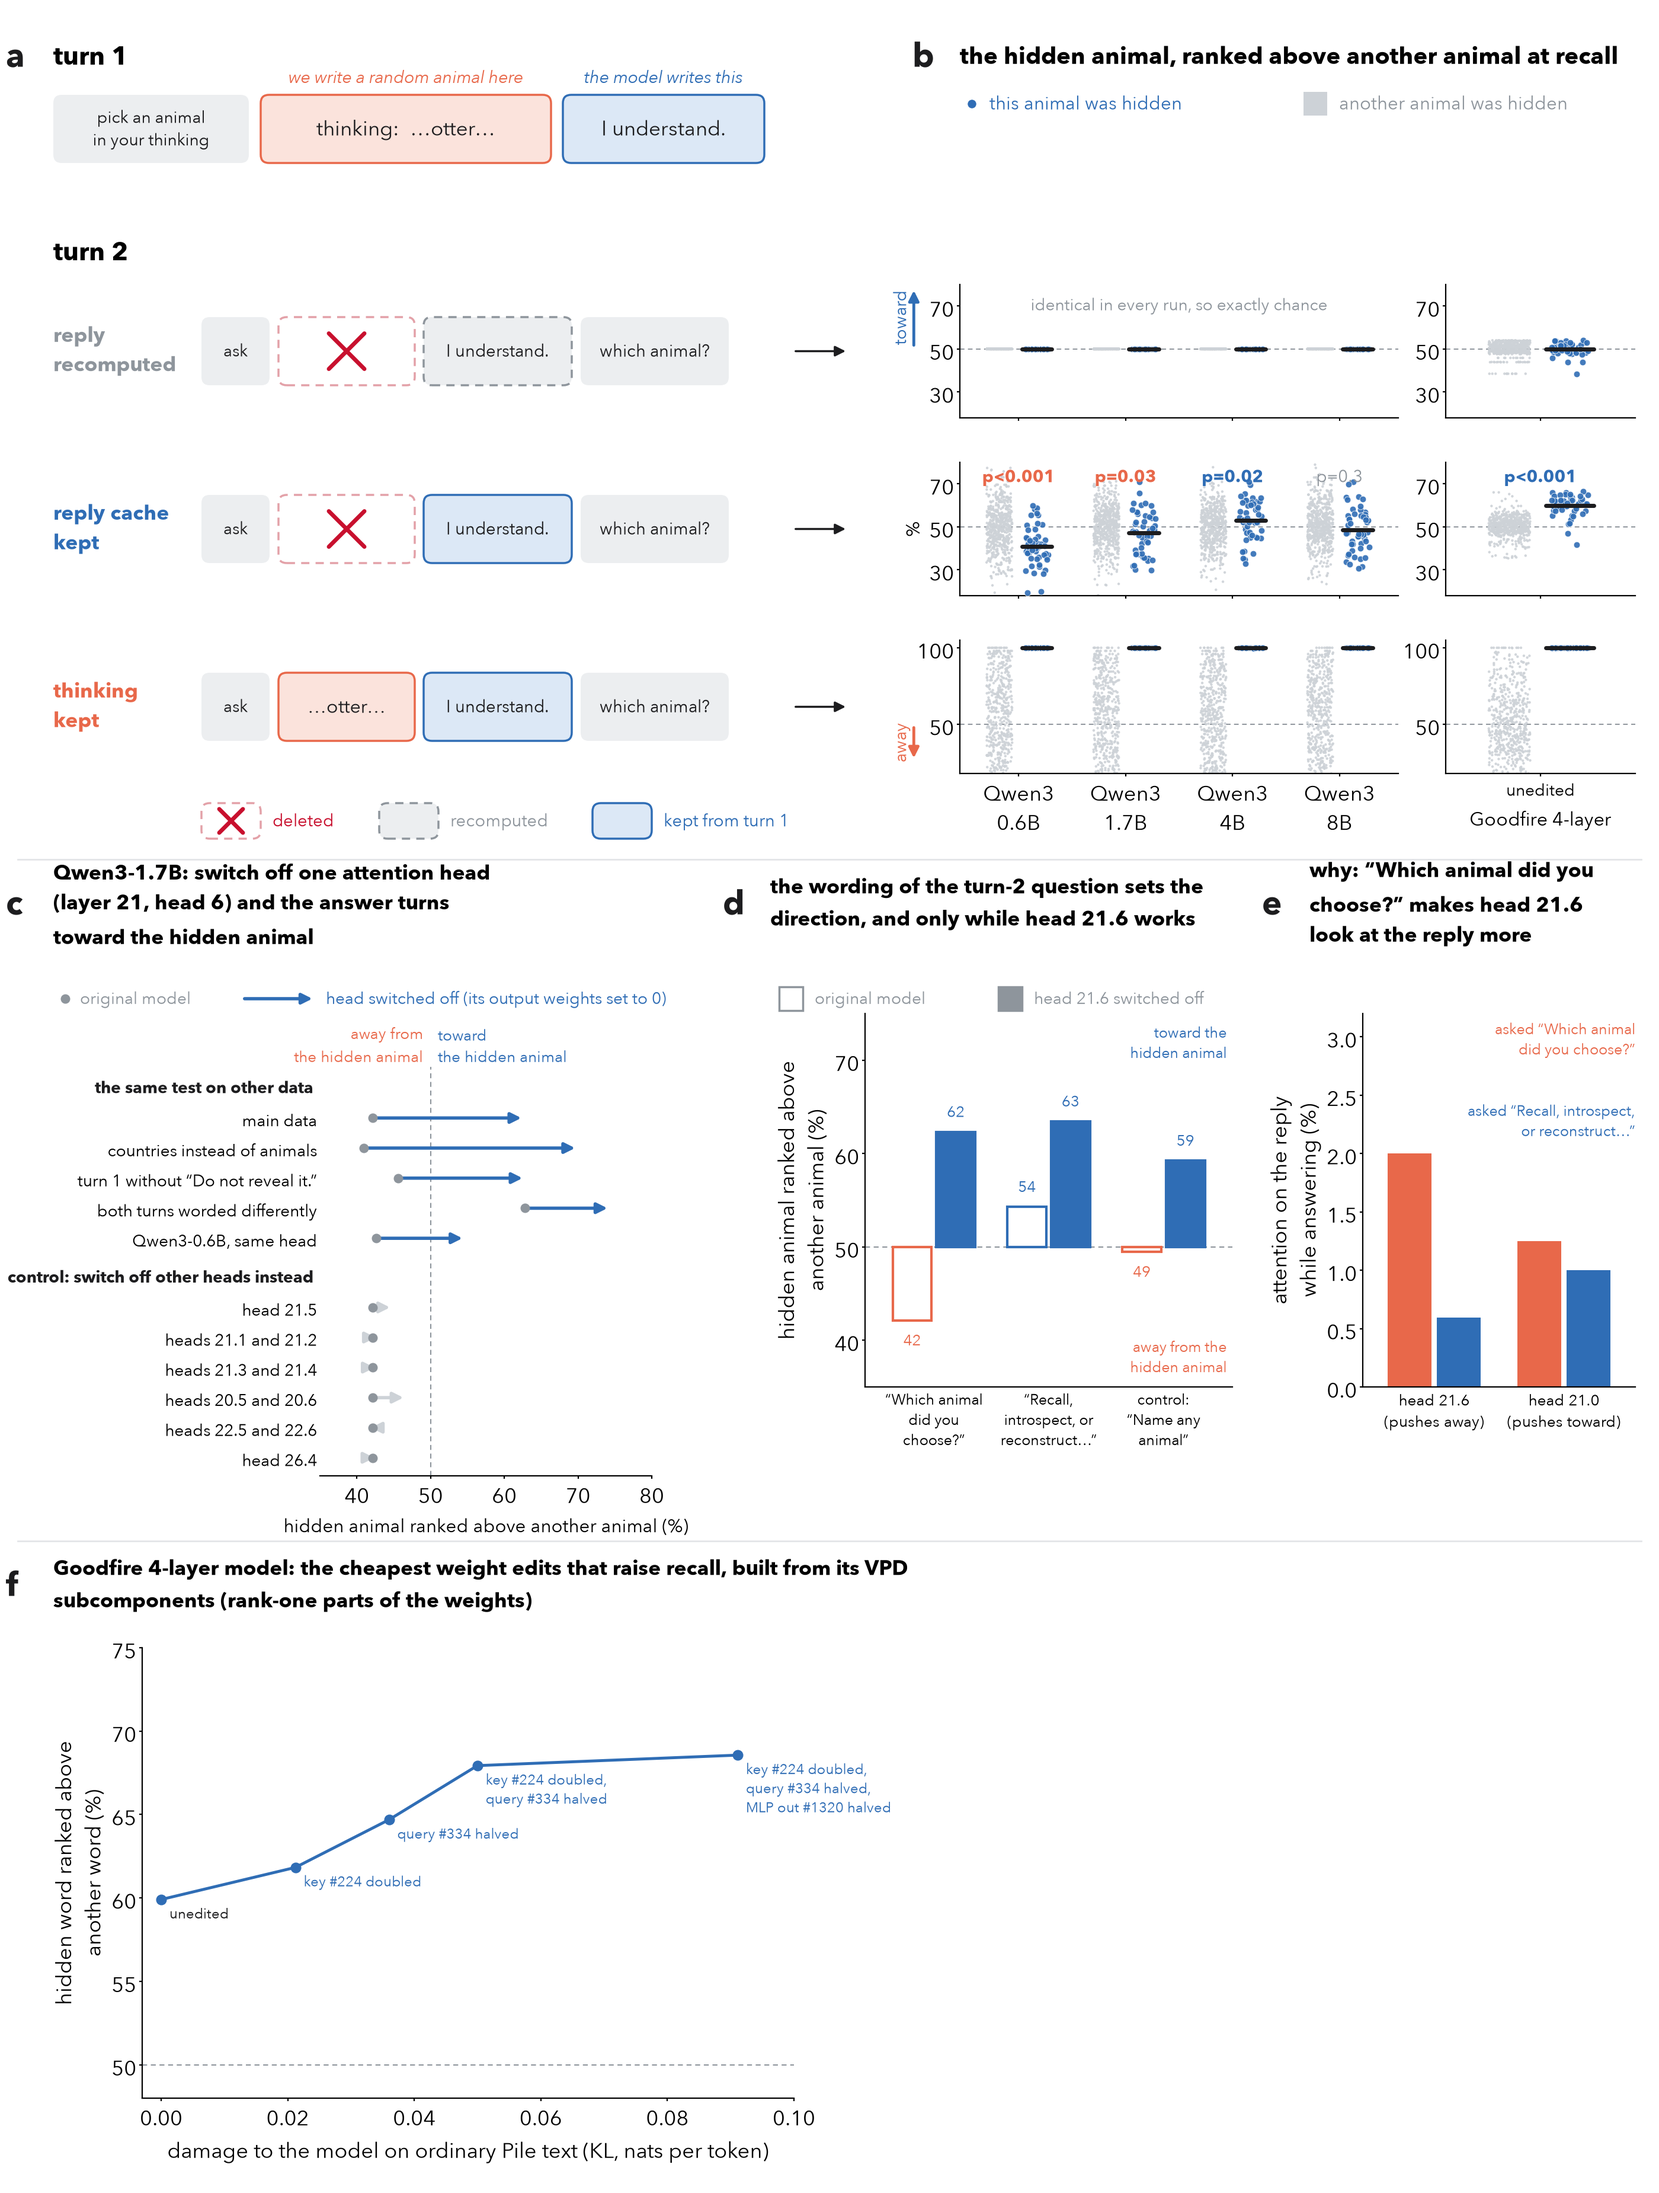
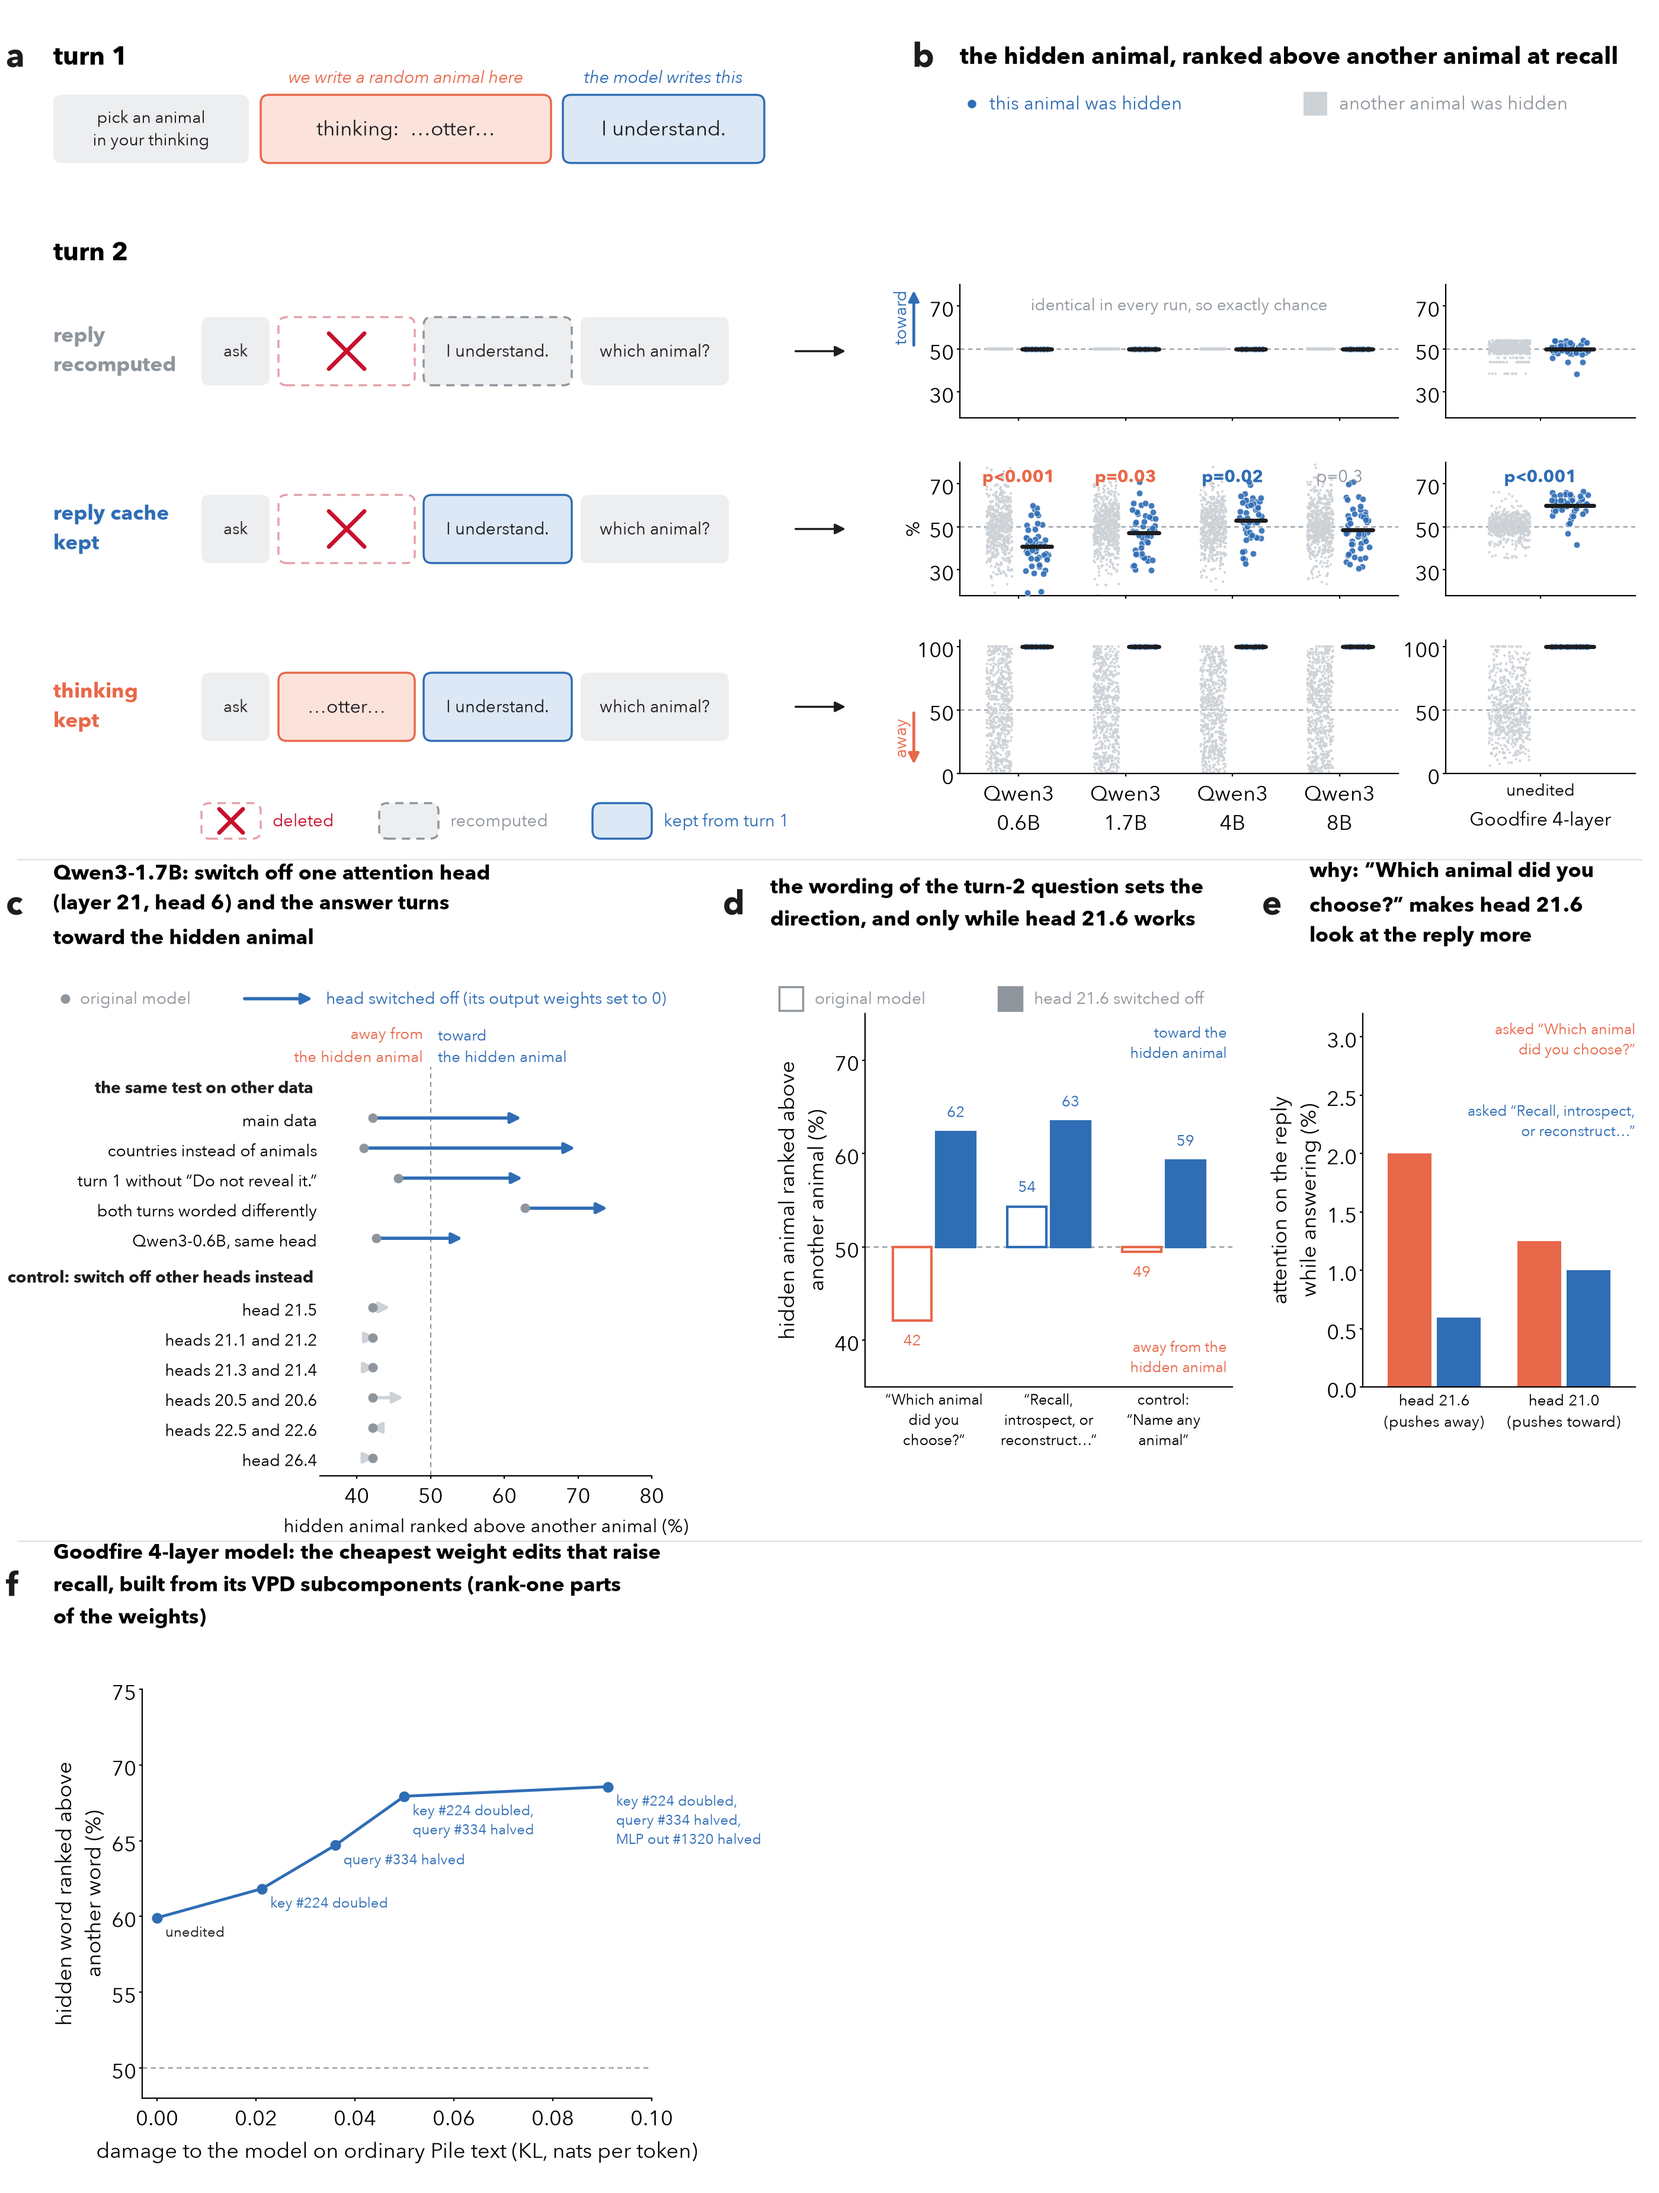
Panel b: full scale for the thinking-kept plot and an away arrow as long as the toward arrow; panel g slot for recall questions that differ in their request; edit_heads asks extra turn-2 questions over the same caches

diff --git a/figure_main.py b/figure_main.py
@@ -149,10 +149,10 @@ def row_experiment(cv, paths, y0, text4l=None):
     cv.S.text(22.6, top - 1.75, "another animal was hidden", fontsize=22, color=SLATE, va="center")
     specs = {"stripped": ((18, 80), [30, 50, 70], False),
              "retained": ((18, 80), [30, 50, 70], True),
-             "visible": ((18, 105), [50, 100], False)}
+             "visible": ((0, 105), [0, 50, 100], False)}
     specs4 = specs
     # direction: an up arrow above zero on the top plot, a down arrow below zero on the bottom plot
-    arrows = {"stripped": (51, 78, BLUE, "toward"), "visible": (49, 27, CORAL, "away")}
+    arrows = {"stripped": (51, 78, BLUE, "toward"), "visible": (49, 6, CORAL, "away")}
     for (name, _), y in zip(rows, ys):
         if text4l:
             ax4 = cv.axes(24.4, y - 0.55, 3.2, h + 1.1)
@@ -298,13 +298,49 @@ def row_head(cv, y0, flip_groups, questions, attention):
     ax.set_xlim(-0.55, 1.55)
 
 
-def row_fourlayer(cv, sweep_paths, optimized, y0):
+def panel_words(cv, x, y, w, h, path):
+    """Discrimination for turn-2 questions that differ only in their final request, over the same turn-1 caches
+    (edit_heads.py --question); bars start at chance."""
+    e = json.load(open(path))["edits"]["none"]
+    rows = [("retained", "\u201cWhich animal did you choose?\u201d"),
+            ("A_recall", "\u201cRecall which animal you chose\u201d"),
+            ("A_introspect", "\u201cIntrospect on which animal you chose\u201d"),
+            ("A_reconstruct", "\u201cReconstruct which animal you chose\u201d"),
+            ("A_all_three", "\u201cRecall, introspect, or reconstruct which\nanimal you chose\u201d"),
+            (None, None),
+            ("B_original", "question B as written"),
+            ("B_which", "question B ending \u201cWhich animal did\nyou choose?\u201d")]
+    ax = cv.axes(x, y, w, h)
+    yy, ticks, labels = 0.0, [], []
+    for arm, label in rows:
+        if arm is None:
+            yy -= 0.5
+            continue
+        if arm not in e:
+            continue
+        v = 100 * e[arm]["discrimination"]
+        col = BLUE if v > 50 else CORAL
+        ax.barh(yy, v - 50, left=50, height=0.66, color=col, zorder=2)
+        ax.text(v + (0.6 if v > 50 else -0.6), yy, f"{v:.0f}", va="center", ha="left" if v > 50 else "right", fontsize=19, color=col)
+        ticks.append(yy)
+        labels.append(label)
+        yy -= 1.0
+    direction_axis(ax, 35, 70)
+    ax.set_yticks(ticks, labels, fontsize=19)
+    ax.tick_params(axis="y", length=0)
+    ax.spines["left"].set_visible(False)
+    ax.set_ylim(yy + 0.4, 0.6)
+    ax.set_xticks([40, 50, 60, 70])
+    ax.set_xlabel("hidden animal ranked above another animal (%)", fontsize=22)
+
+
+def row_fourlayer(cv, sweep_paths, optimized, words, y0):
     """Panel f, occupying [y0, y0 + ROWS[2]]: the cheapest VPD-subcomponent weight edits of Goodfire's 4-layer model."""
     top = y0 + ROWS[2]
     cv.letter(0.1, top - 0.75, "f")
-    cv.S.text(0.9, top - 0.75, "Goodfire 4-layer model: the cheapest weight edits that raise recall, built from its VPD\n"
-              "subcomponents (rank-one parts of the weights)", fontsize=25, weight="bold", va="center", linespacing=1.15)
-    ax = cv.axes(2.4, y0 + 1.6, 11.0, 7.6)
+    cv.S.text(0.9, top - 0.75, "Goodfire 4-layer model: the cheapest weight edits that raise\nrecall, built from its VPD subcomponents (rank-one parts\nof the weights)",
+              fontsize=25, weight="bold", va="center", linespacing=1.15)
+    ax = cv.axes(2.4, y0 + 1.6, 8.6, 6.9)
     names = {"h.3.attn.q_proj#334": "query #334", "h.2.attn.k_proj#224": "key #224", "h.1.mlp.down_proj#1320": "MLP out #1320"}
     word = lambda f: {"0": "removed", "0.5": "halved", "2": "doubled", "4": "×4", "8": "×8"}.get(f, f"×{f}")
     pts = []
@@ -335,6 +371,11 @@ def row_fourlayer(cv, sweep_paths, optimized, y0):
     ax.set_ylim(48, 75)
     ax.set_xlabel("damage to the model on ordinary Pile text (KL, nats per token)")
     ax.set_ylabel("hidden word ranked above\nanother word (%)")
+    if words:
+        cv.letter(13.6, top - 0.75, "g")
+        cv.S.text(14.4, top - 0.75, "Qwen3-1.7B: which words in the recall question turn the\nanswer toward the hidden animal (same caches, original model)",
+                  fontsize=25, weight="bold", va="center", linespacing=1.15)
+        panel_words(cv, 20.6, y0 + 1.6, 6.6, 6.9, words)
 
 
 def main():
@@ -347,13 +388,14 @@ def main():
     ap.add_argument("--attention", nargs=4, required=True, help="attention.py outputs, both turn-1 by both recall wordings")
     ap.add_argument("--sweep", nargs="+", required=True, help="fourlayer/edit_eval.py outputs")
     ap.add_argument("--optimized", default=None, help="fourlayer/optimize_edit.py output, if there is one")
+    ap.add_argument("--words", default=None, help="edit_heads.py --question output: recall questions differing in their request")
     ap.add_argument("--out", default="figs/main.png")
     a = ap.parse_args()
     fig = plt.figure(figsize=(W, H))
     cv = Canvas(fig)
     row_experiment(cv, a.results, ROWS[1] + ROWS[2], a.text4l)
     row_head(cv, ROWS[2], json.load(open(a.flip)), json.load(open(a.questions)), a.attention)
-    row_fourlayer(cv, a.sweep, a.optimized, 0)
+    row_fourlayer(cv, a.sweep, a.optimized, a.words, 0)
     for y in (ROWS[2] + ROWS[1], ROWS[2]):
         cv.S.plot([0.3, W - 0.3], [y, y], color="#e3e5e8", lw=2)
     fig.savefig(a.out, dpi=100)

diff --git a/edit_heads.py b/edit_heads.py
@@ -8,6 +8,7 @@ edit, on a hidden_choice.py result's runs and thinking texts:
   top-1, mean rank of the hidden animal; the own-animal raise (nats)
   damage          KL from the unedited model's next-token distributions on held-out web text (nats per token)
 With --turn1-drop, turn 1 is recomputed without one sentence of its instruction, over the same thinking texts.
+With --question NAME=TEXT, further turn-2 questions are asked over the same caches.
 usage: edit_heads.py RESULT.json WINDOWS.u32 --edits "21:0*4;21:5*0,21:6*0;..." --out OUT.json
 """
 import argparse
@@ -27,10 +28,12 @@ def main():
     ap = argparse.ArgumentParser()
     ap.add_argument("result")
     ap.add_argument("windows")
-    ap.add_argument("--edits", required=True, help="edits separated by ';', each layer:kv_head*scale pairs, comma separated")
+    ap.add_argument("--edits", default="", help="edits separated by ';', each layer:kv_head*scale pairs, comma separated")
     ap.add_argument("--max-runs", type=int, default=600)
     ap.add_argument("--recall", default=None, choices=["A", "B"], help="ask the recall question of this wording instead")
     ap.add_argument("--turn1-drop", default=None, help="remove this sentence from turn 1 (the thinking texts are kept)")
+    ap.add_argument("--question", action="append", default=[],
+                    help="NAME=TEXT: also ask this turn-2 question over the same caches, reported as arm NAME")
     ap.add_argument("--arms", default="retained", help="retained, neutral (any-animal question), visible (thinking kept)")
     ap.add_argument("--batch", type=int, default=16)
     ap.add_argument("--device", default="cuda")
@@ -64,6 +67,12 @@ def main():
     full_n = chat([{"role": "user", "content": TURN1}, {"role": "assistant", "content": "I understand."},
                    {"role": "user", "content": NEUTRAL}])
     suffixes = {"retained": suffix, "neutral": full_n[P + R:] + answer, "visible": suffix}
+    for q in a.question:
+        name, text = q.split("=", 1)
+        full_q = chat([{"role": "user", "content": TURN1}, {"role": "assistant", "content": "I understand."},
+                       {"role": "user", "content": text}])
+        assert full_q[:P + R] == prompt + reply, "chat template does not keep the turn-1 prefix"
+        suffixes[name] = full_q[P + R:] + answer
     forms = [(c, tok.encode(f, add_special_tokens=False)) for c in ANIMALS for f in (" " + c.title(), " " + c)]
     chosen = np.array([ANIMALS.index(x) for x in d["chosen"]])[: a.max_runs]
     thinks = [tok.encode("<think>\n" + th + "\n</think>\n\n", add_special_tokens=False) for th in d["thinking"][: a.max_runs]]
@@ -83,7 +92,7 @@ def main():
     res = {"model": d["model"], "runs": n, "turn1_drop": a.turn1_drop, "edits": {}}
     with torch.no_grad():
         base_web = web_logp()
-        for spec in ["none"] + a.edits.split(";"):
+        for spec in ["none"] + [e for e in a.edits.split(";") if e]:
             for l, W in original.items():
                 model.model.layers[l].self_attn.o_proj.weight.copy_(W)
             if spec != "none":
@@ -94,7 +103,7 @@ def main():
                     W[:, h * group * hd:(h + 1) * group * hd] *= float(scale)
             clean = layers_of(model(torch.tensor([prompt], device=a.device), use_cache=True).past_key_values)
             prompt_kv = [(k.cpu(), v.cpu()) for k, v in clean]
-            arms = a.arms.split(",")
+            arms = a.arms.split(",") + [q.split("=", 1)[0] for q in a.question]
             Ls = {arm: [] for arm in arms}
             for s in range(0, n, a.batch):
                 kvs, fulls = [], []
